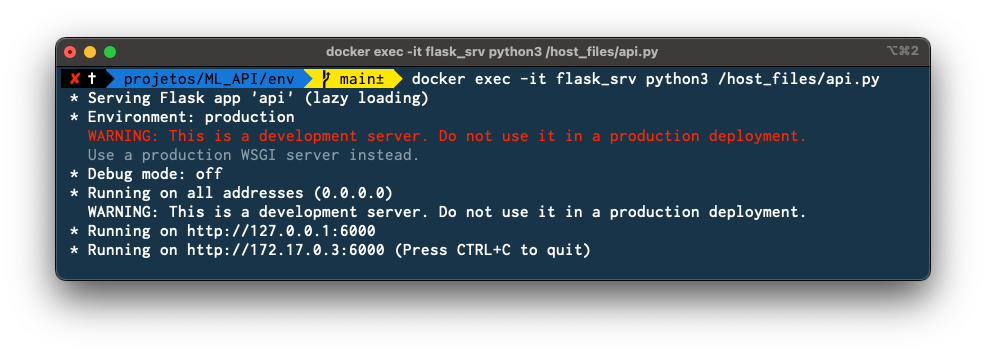
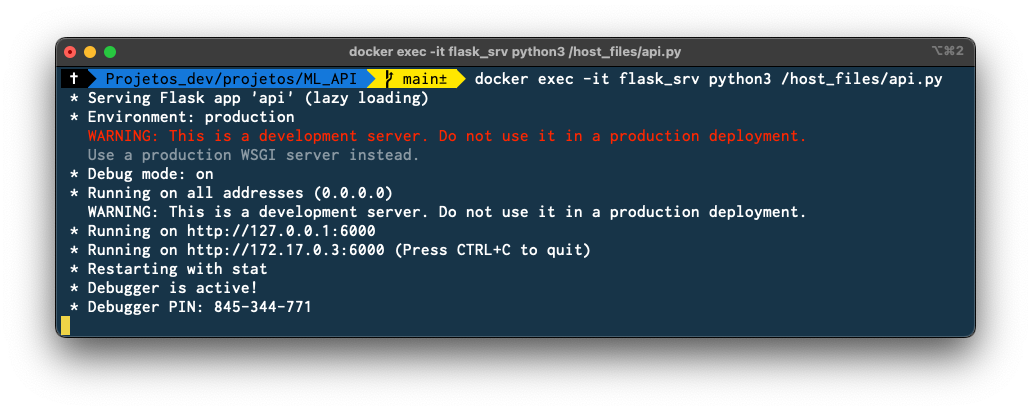
Accept and validate input values

Changed region(s): [[0.0304, 0.0621, 0.9736, 0.9011]]

diff --git a/api.py b/api.py
@@ -1,36 +1,80 @@
 from flask import Flask
 from flask_restful import Resource, Api, reqparse
-#import pandas as pd
-#from sklearn.preprocessing import OneHotEncoder, StandardScaler
+# import pandas as pd
+# from sklearn.preprocessing import OneHotEncoder, StandardScaler
 
-#import pickle
+# import pickle
 
 app = Flask(__name__)
 api = Api(app)
 
+parser = reqparse.RequestParser()
+parser.add_argument('Age', required=True)
+parser.add_argument('Fare', required=True)
+parser.add_argument('SibSp', required=True)
+parser.add_argument('Sex', required=True)
+parser.add_argument('Cabin', required=True)
+parser.add_argument('Embarked', required=True)
+
 
 class Titanic(Resource):
-    def get(self):
+    def get(self):  # , SibSp, Fare, Sex, Cabin, Embarked
+        args = parser.parse_args()
 
-        # imput features:
-        #   'Age'
-        #   'SibSp'
-        #   'Fare'
-        #   'Sex' is in ['female', 'male']
-        #   'Cabin' is in ['A', 'B', 'C', 'D', 'E', 'F', 'G', 'T', 'W', 'Z']
-        #   'Embarked' is in ['C', 'Q', 'S']
+        # 'Age' must be float
+        try:
+            age = float(args['Age'])
+        except:
+            return {
+                'message': f"'{args['Age']}' is not a valid number of years (must be float or int)."
+            }, 200
 
-        # normalize 'Age', 'SibSp', 'Fare'
-     #       scaler = json.loads(scaler_json)
+        # 'SibSp' must be int
+        try:
+            SibSp = int(args['SibSp'])
+        except:
+            return {
+                'message': "'{}' is not a valid SibSp value (number of siblings and spouses aboard the Titanic must be integer).".format(args['SibSp'])
+            }, 200
 
-        # encode 'Sex', 'Cabin', 'Embarked'
-     #       encoder = json.loads(encoder_json)
+        # 'Fare' must be float
+        try:
+            Fare = float(args['Fare'])
+        except:
+            return {
+                'message': "'{}' is not a valid Fare in british pounds value (must be float or int).".format(args['Fare'])
+            }, 400
+
+        # 'Sex' is in ['female', 'male']
+        if args['Sex'] not in ['female', 'male']:
+            return {
+                'message': f"'{args['Sex']}' is not a valid Sex value (must be 'female' or 'male')."
+            }, 400
+
+        # 'Cabin' is in ['A', 'B', 'C', 'D', 'E', 'F', 'G', 'T', 'W', 'Z']
+        if args['Cabin'] not in ['A', 'B', 'C', 'D', 'E', 'F', 'G', 'T', 'W', 'Z']:
+            return {
+                'message': f"'{args['Cabin']}' is not a valid Cabin letter (must be 'A', 'B', 'C', 'D', 'E', 'F', 'G', 'T', 'W' or 'Z')."
+            }, 400
+
+        # 'Embarked' is in ['C', 'Q', 'S']
+        if args['Embarked'] not in ['C', 'Q', 'S']:
+            return {
+                'message': f"'{args['Embarked']}' is not a valid port of departure letter (must be 'C', 'Q' or 'S')."
+            }, 400
+
+    #   normalize 'Age', 'SibSp', 'Fare'
+    #         scaler = json.loads(scaler_json)
+
+    #   encode 'Sex', 'Cabin', 'Embarked'
+    #         encoder = json.loads(encoder_json)
 
         # return data and 200 OK
         return {'survived': 'I will tell you soon'}, 200
 
 
-api.add_resource(Titanic, '/titanic')  # add endpoints
+api.add_resource(Titanic, '/titanic')  # add endpoint
 
 if __name__ == '__main__':
-    app.run(host='0.0.0.0', port=6000)  # run our Flask app
+    # run our Flask app in development
+    app.run(host='0.0.0.0', port=6000, debug=True)

diff --git a/README.md b/README.md
@@ -10,23 +10,35 @@ The application is written in Python, served with Flask and can the API can be c
 
 Training the ML model falls outside of the scope of this exercise, so we'll use a previously trained classifier model form my [Titanic GitHub repository](https://github.com/ptavaressilva/titanic).
 
-The API has a single endpoint called `/titanic`.
+The API has a single GET endpoint called `/titanic`.
 
-### Running the API on the local computer
+## Running the API on the local computer (development environment)
 
 1. In the 'env' directory run './build.sh' to create the Docker image.
-2. In the repository root run 'env/start_linux.sh' to start the container.
+2. In the repository root run 'dev_env/start_linux.sh' to start the container.
 
-The API will be exposed on port 6000 of the localhost.
+The API will be exposed on port 6000 of the localhost and will auto-reload whenever you change (and save) the 'api.py' program.
 
 ![Flask server running](img/0.02.png)
 
-You can use it with Postman (or another application of your choice) with GET on `http://localhost/titanic`
+You can use it with curl:
 
-![GET on endpoint /titanic](img/0.01.png)
+```shell
+curl --location --request GET 'http://localhost:6000/titanic' \
+--header 'Content-Type: application/json' \
+--data-raw '{
+    "Age":"10",
+    "Fare": "123.0",
+    "SibSp":"2",
+    "Sex":"female",
+    "Cabin":"A",
+    "Embarked":"S"
+}'
+```
+You can also use Postman, or another application of your choice.
 
-### Current state of the API
+![GET on endpoint /titanic](img/0.04.png)
 
-In this version (0.1) the API will only return the string `{'survived': 'I will tell you soon'}`
+## Current state of the API
 
-Next version will require passing the values for Age', 'SibSp', 'Fare', 'Sex', 'Cabin' and 'Embarked' and will return the predicted survival of that passenger.
+As of this version (0.2) the API accepts the values required for the prediction of the survival of the passenger, and it validates that those values are valid. It does not however return a prediction of the survival of the (real or imaginary) Titanic passenger. It will only return the string `{'survived': 'I will tell you soon'}`
